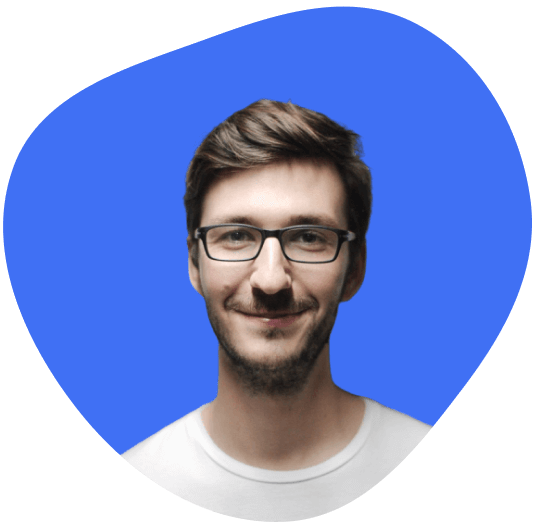
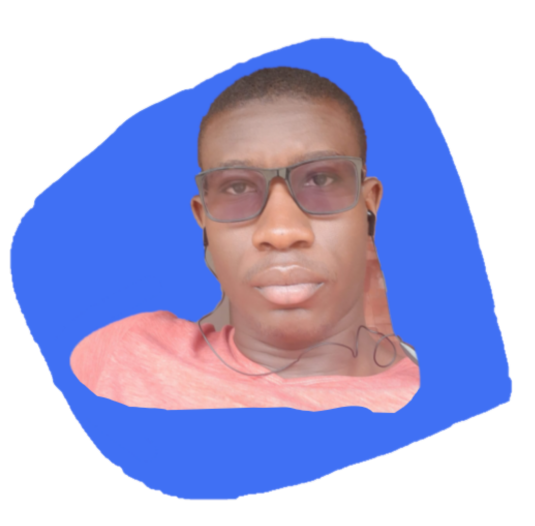
repalcement profile image

diff --git a/index.html b/index.html
@@ -193,6 +193,14 @@
         </section>
     </main>
 
+    <footer class="footer">
+        <p class="footer__title">Thato</p>
+
+        <a href="#" class="footer__icon"><i class="bx bxl-instagram"></i></a>
+        <a href="#" class="footer__icon"><i class="bx bxl-twitter"></i></a>
+        <a href="#" class="footer__icon"><i class="bx bxl-facebook"></i></a>
+    </footer>
+
     <!--===== SCROLL REVEAL =====-->
     <script src="https://unpkg.com/scrollreveal"></script>
 
@@ -207,3 +215,5 @@
[3 lines of base64/hex data omitted]
+
+<i class="bx bxl-instagram"></i>
